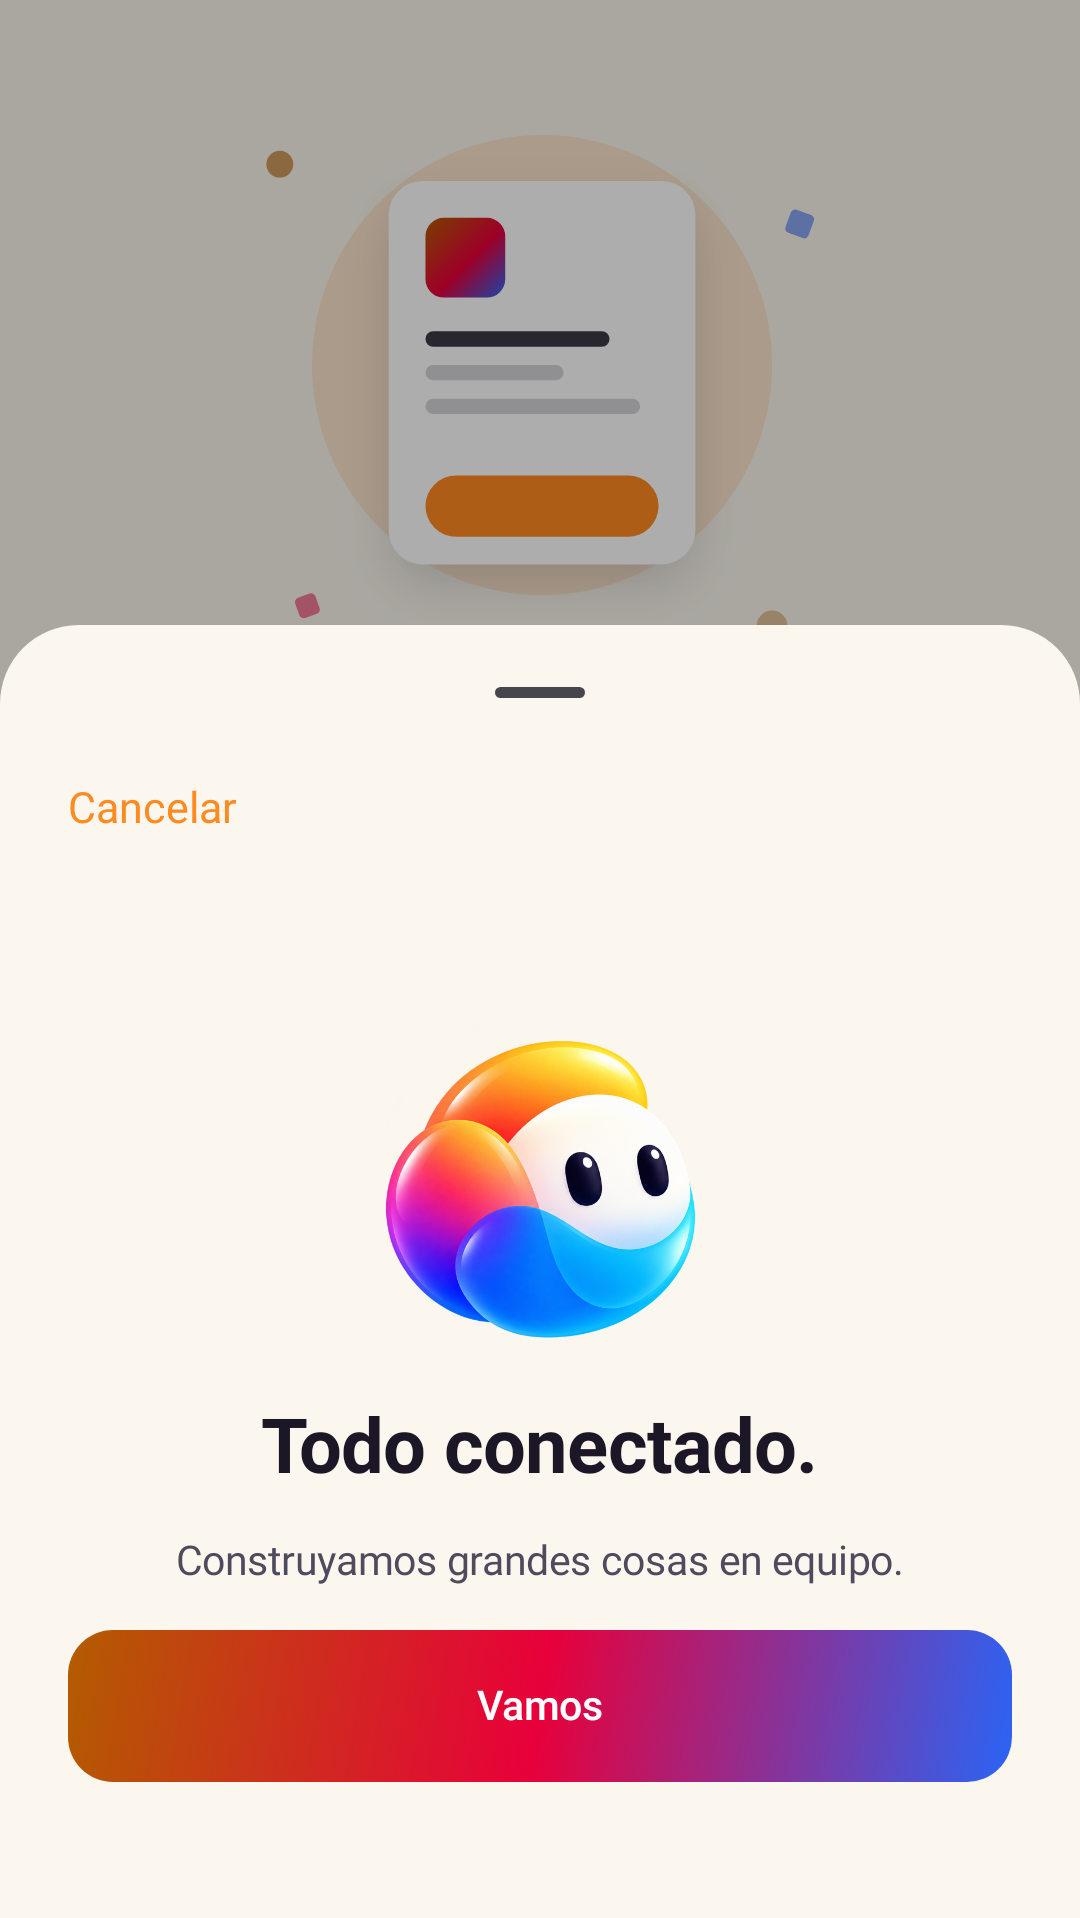
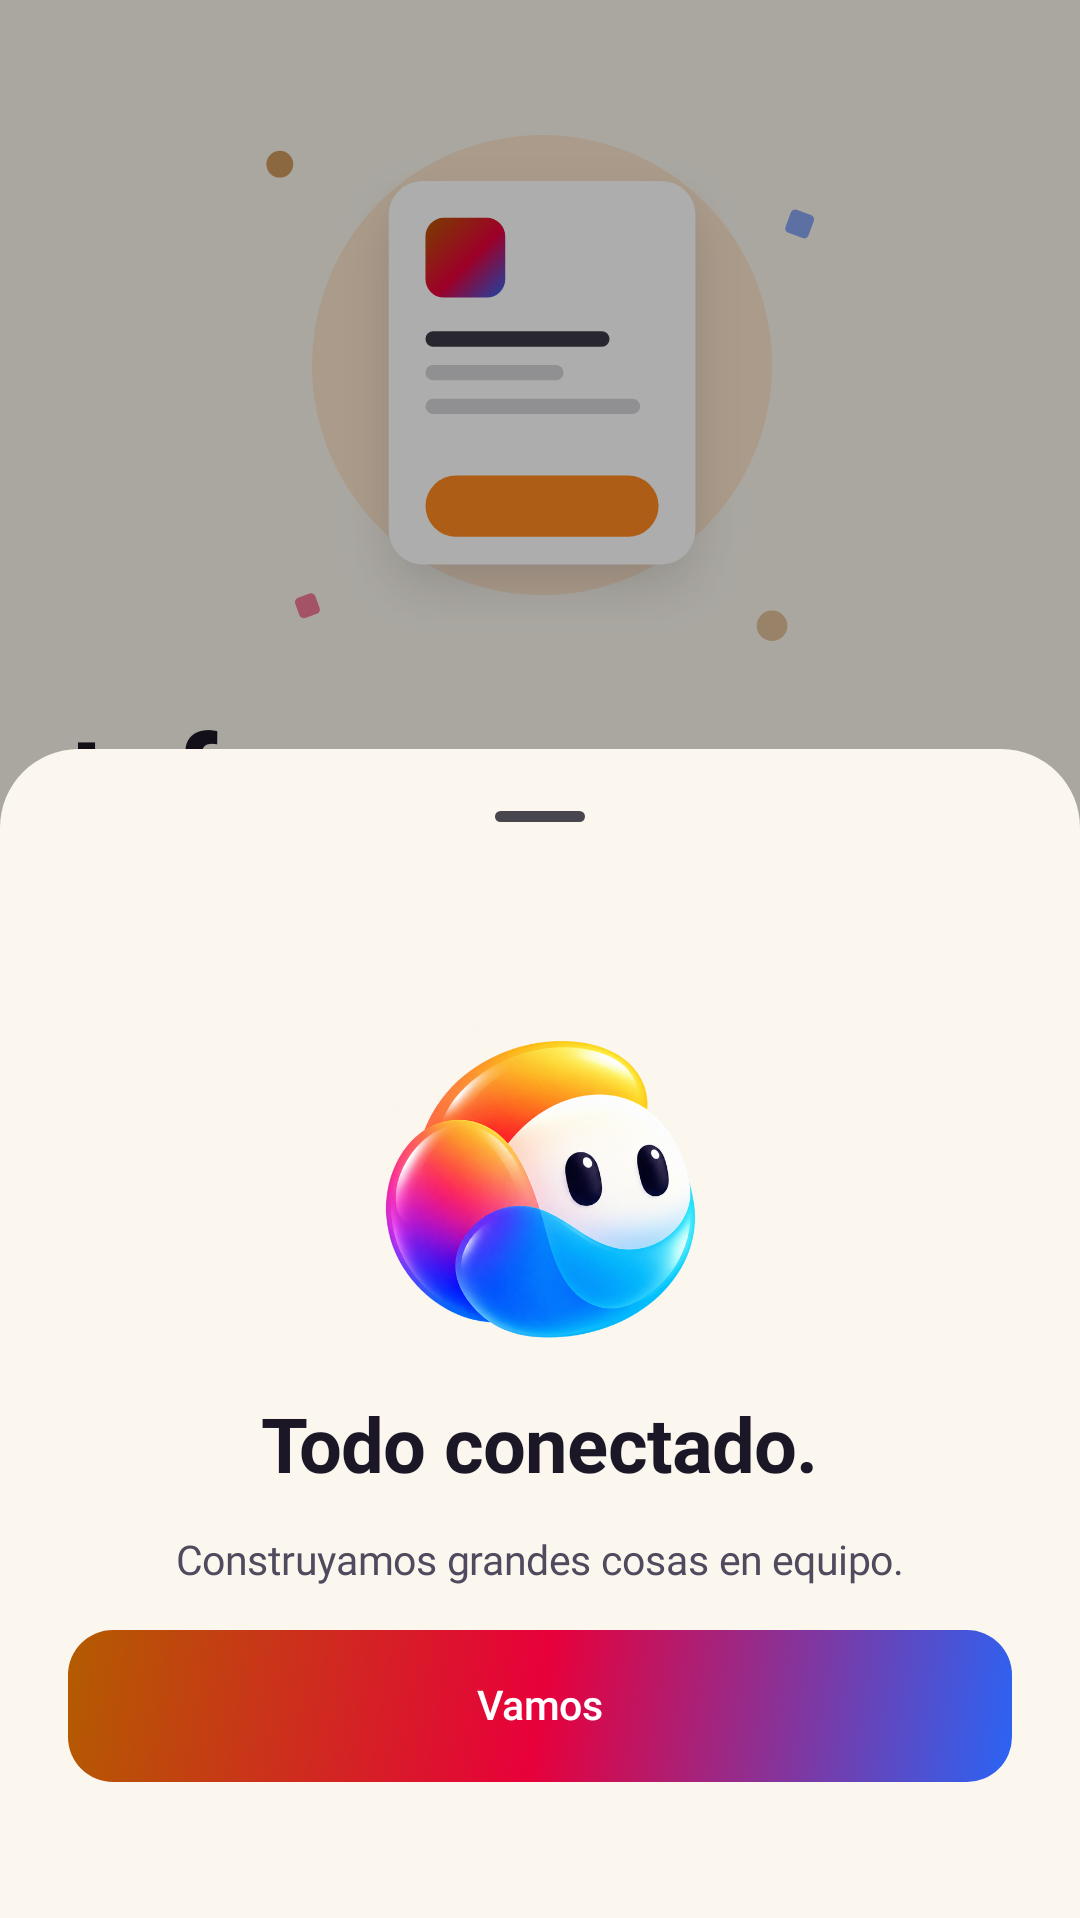
Android: no Cancel once connected; the store screenshots redrawn

Changed region(s): [[0.0, 0.3076, 1.0, 0.4307]]

diff --git a/android/app/src/main/kotlin/bot/tafs/app/views/SignInView.kt b/android/app/src/main/kotlin/bot/tafs/app/views/SignInView.kt
@@ -145,7 +145,8 @@ fun SignInSheet(model: AppModel, onClose: () -> Unit) {
     containerColor = Theme.background,
   ) {
     Column(Modifier.fillMaxWidth().navigationBarsPadding()) {
-      Text(
+      // Once connected, Let's go is the one way on: no Cancel above it.
+      if (!connected) Text(
         Words.Common.cancel,
         style = scaled(17, color = Theme.amber),
         modifier = Modifier.padding(horizontal = 24.dp).heightIn(min = 44.dp).tapping(onClick = close).padding(top = 8.dp),

diff --git a/changes/claude-great-keller-xpsgyp-android-illustrations.md b/changes/claude-great-keller-xpsgyp-android-illustrations.md
@@ -1,1 +1,1 @@
-- **Android: the owner's illustrations.** The welcome, an empty Home, a brief with nothing to decide, Halt all, a key given, Needs you with nothing waiting, Coach's start, the new-taf gallery and the tablet's Overview each show their drawing above the screen's own words, drawn as shapes with no text, in light and dark (docs/android-app.md, Illustrations).
+- **Android: the owner's illustrations.** The welcome, an empty Home, a brief with nothing to decide, Halt all, a key given, Needs you with nothing waiting, Coach's start, the new-taf gallery and the tablet's Overview each show their drawing above the screen's own words, drawn as shapes with no text, in light and dark (docs/android-app.md, Illustrations). Once signed in, the sheet's "You're connected." has no Cancel above Let's go.
